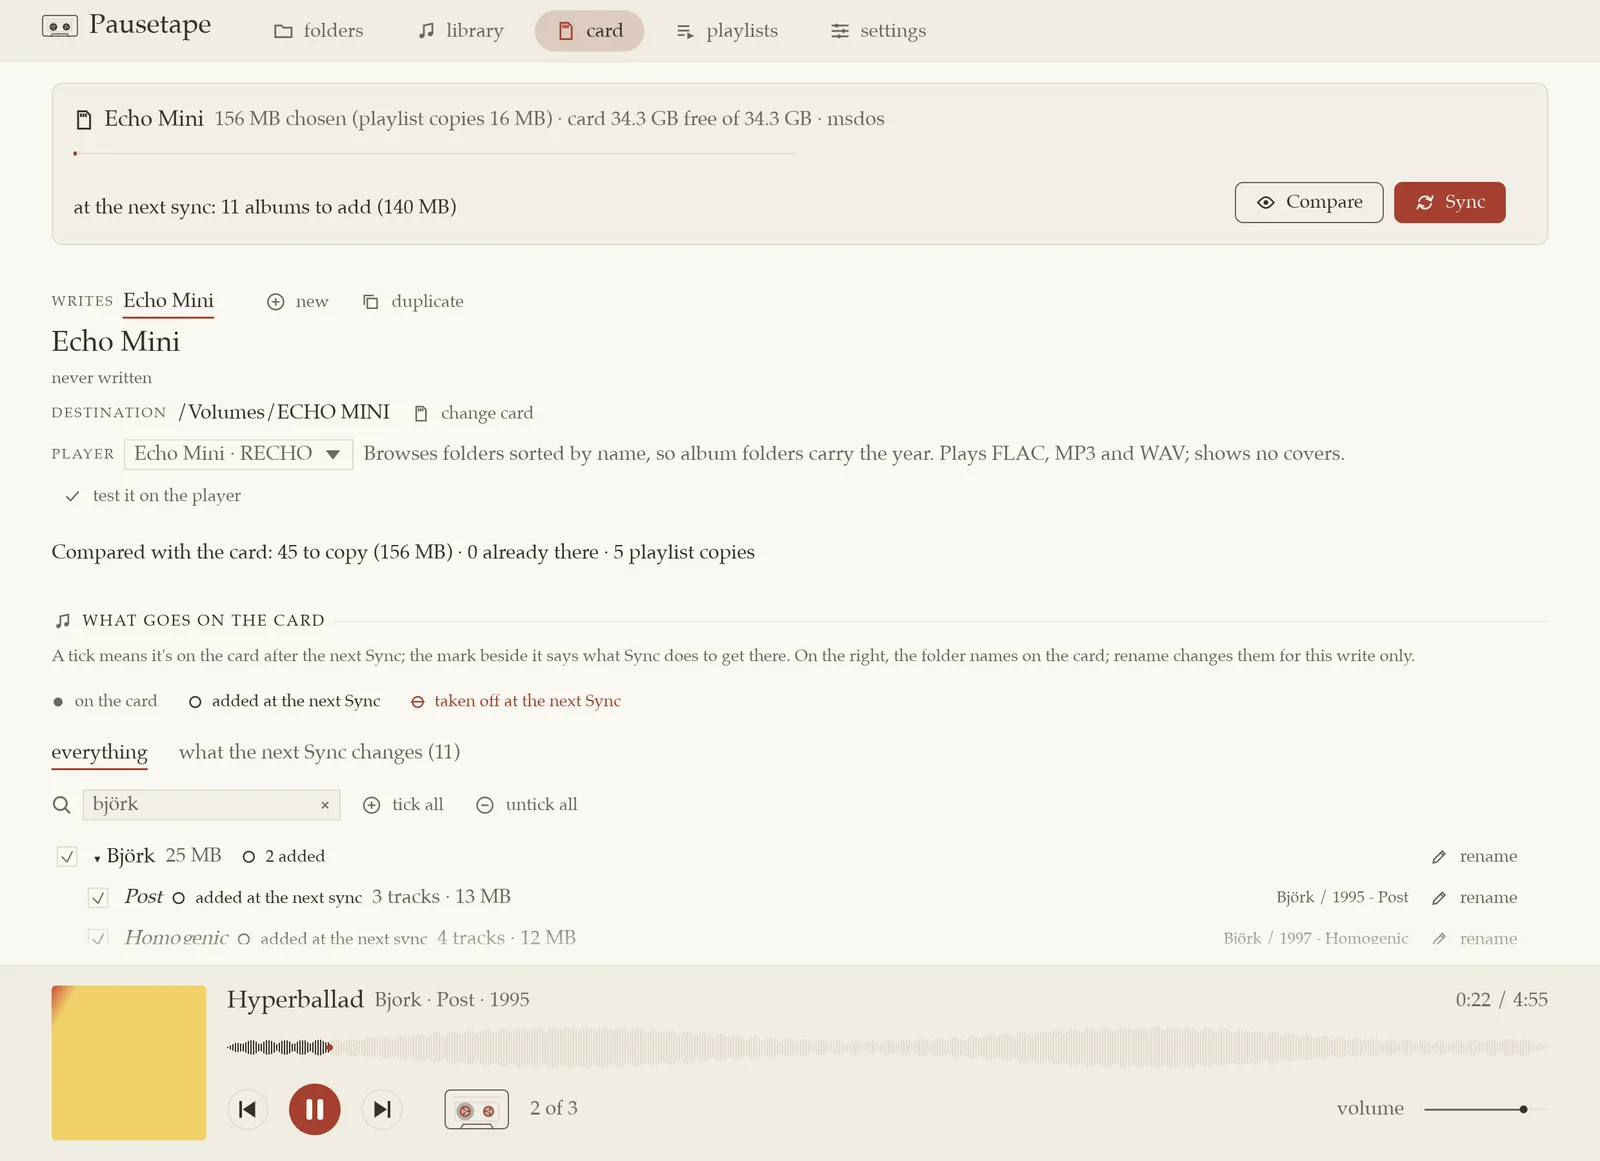
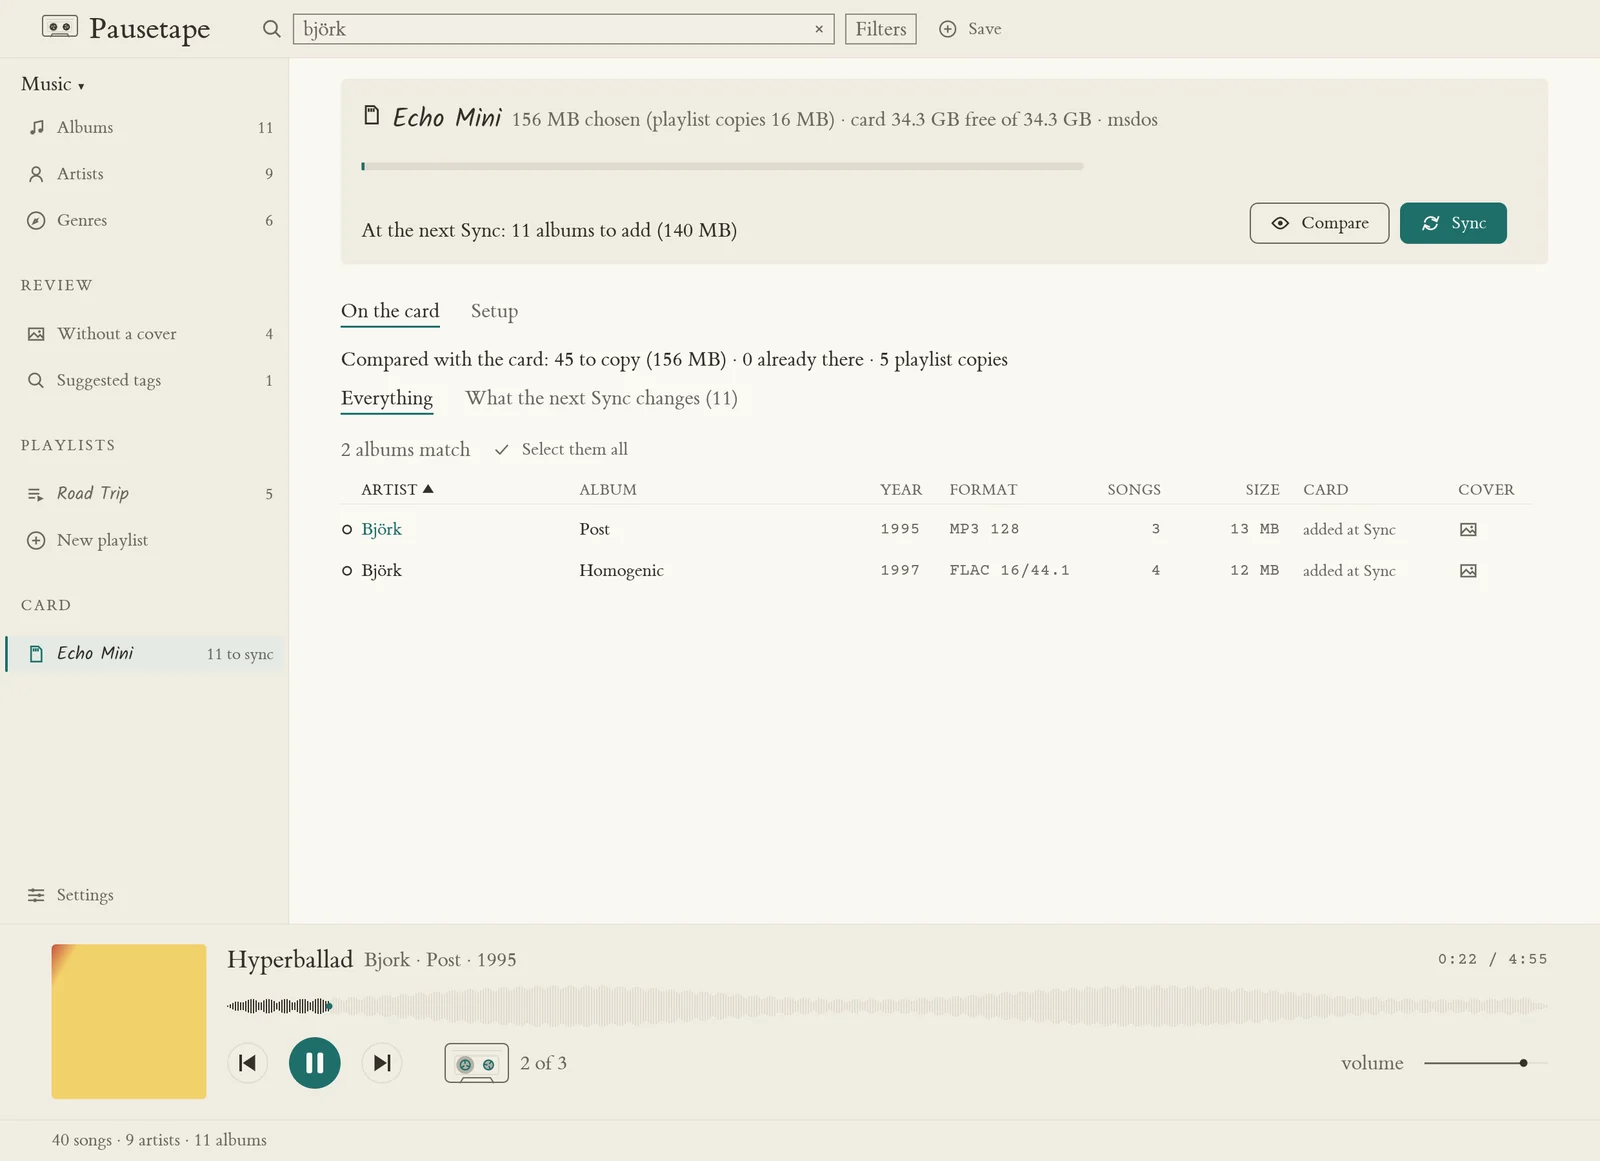
docs(site): screenshots in the redesigned look, the tour's marks moved to fit

diff --git a/site/index.html b/site/index.html
@@ -149,37 +149,37 @@
 <section class="wrap" id="how" data-reveal>
   <p class="hand eyebrow">How it works</p>
   <h2>Five steps, one tape</h2>
-  <p class="lead">The first time takes a few minutes. After that it's steps 4 and 5 only: tick,
+  <p class="lead">The first time takes a few minutes. After that it's steps 4 and 5 only: choose,
     and press Sync.</p>
 
   <div class="tour" data-tour>
     <ol class="tour-steps">
       <li data-shot="step-music"
-          data-marks="27.4 57.2 45.2 3.6 | 27.4 63 14.8 3.6"
+          data-marks="27.4 57.2 45.4 4 | 27.4 63.8 13.2 3.4"
           data-notes="Open folders until you're in the one that holds your music… | …then use it. Nothing is moved or changed.">
         <button type="button"><span class="num">1</span><span><b>Show it your music</b>
           <small>Any folder, tidy or not.</small></span></button>
       </li>
       <li data-shot="step-card"
-          data-marks="3.25 36.3 54.75 20.5 | 27.9 60.4 11.8 3.6"
+          data-marks="27.4 54.8 45.1 21.7 | 27.4 80.2 6.6 3.4"
           data-notes="Plug in the card and choose it. Pausetape checks it's formatted the way the player needs. | All set: on to choosing what goes on it.">
         <button type="button"><span class="num">2</span><span><b>Choose the card</b>
           <small>FAT32 or exFAT, as the player wants.</small></span></button>
       </li>
       <li data-shot="step-tidy"
-          data-marks="3.1 35.3 15 3.6 | 3.7 70.9 68 10.7 | 3.25 40.3 73.1 20.7"
+          data-marks="21.3 28.6 14.8 3.4 | 22.6 53.4 71.5 22.6 | 21.3 33.7 44.1 9.6"
           data-notes="“Bjork” and “Björk” were two artists. Now they're one. | MusicBrainz suggests the right spelling. Untick what you don't want; nothing changes until you apply it. | And if you like what you hear: where to buy it, or listen to more first.">
         <button type="button"><span class="num">3</span><span><b>Let it tidy up</b>
           <small>Names, years, track numbers.</small></span></button>
       </li>
       <li data-shot="step-choose"
-          data-marks="3.1 59.3 92.8 22.4 | 87.1 15.7 7 3.4"
-          data-notes="Tick the artists and albums that go on this card. The mark beside each says what Sync does: copy it, keep it, or take it off. | Press Sync.">
+          data-marks="21.3 41.2 74.6 9.6 | 87.6 17.5 6.6 3.4"
+          data-notes="What goes on this card, album by album. Beside each, what Sync does with it: add it, keep it, or take it off. | Press Sync.">
         <button type="button"><span class="num">4</span><span><b>Pick the songs</b>
           <small>Whole artists, albums, playlists.</small></span></button>
       </li>
       <li data-shot="step-record"
-          data-marks="3.1 5.9 53.1 3.3 | 89.9 6.2 6.8 3.5"
+          data-marks="42.5 96.8 46.6 1.8 | 90.4 96.6 6.3 2"
           data-notes="It's recording. The time left is counted as it goes. | Stop whenever you like: what's copied stays, and the next Sync carries on.">
         <button type="button"><span class="num">5</span><span><b>Press record</b>
           <small>Then eject, and press play.</small></span></button>
@@ -195,7 +195,7 @@
         </picture>
         <picture class="tour-shot">
           <source srcset="img/step-card-dark.webp" media="(prefers-color-scheme: dark)">
-          <img src="img/step-card-light.webp" width="1600" height="1161" loading="lazy" alt="The folders tab: the music folder, and the card ECHO MINI, with 34 GB free.">
+          <img src="img/step-card-light.webp" width="1600" height="1161" loading="lazy" alt="The welcome: the music folder, and the card ECHO MINI, with 34 GB free, then Start.">
         </picture>
         <picture class="tour-shot">
           <source srcset="img/step-tidy-dark.webp" media="(prefers-color-scheme: dark)">
@@ -203,7 +203,7 @@
         </picture>
         <picture class="tour-shot">
           <source srcset="img/step-choose-dark.webp" media="(prefers-color-scheme: dark)">
-          <img src="img/step-choose-light.webp" width="1600" height="1161" loading="lazy" alt="The card tab: Björk's two albums ticked, each marked as added at the next Sync and with the folder name it gets on the card, and the Sync button.">
+          <img src="img/step-choose-light.webp" width="1600" height="1161" loading="lazy" alt="The card: Björk's two albums chosen, each marked as added at the next Sync, and the Sync button.">
         </picture>
         <picture class="tour-shot">
           <source srcset="img/step-record-dark.webp" media="(prefers-color-scheme: dark)">

diff --git a/CHANGELOG.md b/CHANGELOG.md
@@ -1231,3 +1231,12 @@ so, and offers the next step.
   macOS, which program still has something open there, from diskutil's answer.
 - Checked on macOS with a FAT32 disk image: ejected, and refused while a program kept a file on
   it open. Windows and Linux not tried yet ([TESTING](docs/TESTING.md) step 18c).
+
+### 102. The website’s screenshots in the new look (2026-11-06)
+- The top of the page and the tour's five steps show the app after the UI/UX redesign: ET Book,
+  Courier Prime and Kalam, the sidebar, the welcome dialog with its two steps, the card's view
+  with its table, the job in the status bar.
+- Every mark of the tour moved to fit (they still pointed at the old tabs), checked in the page
+  itself, in both themes. The bottom ones stay inside the frame, which clips the ring.
+- Step 4's note and the line above the tour say "choose" rather than "tick", as albums are sent
+  to the card from the library now; two screenshots' `alt` texts say what they show today.
